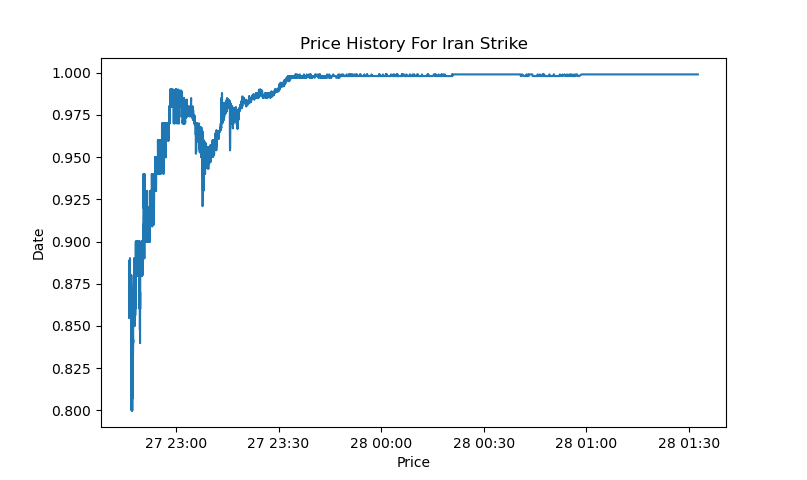
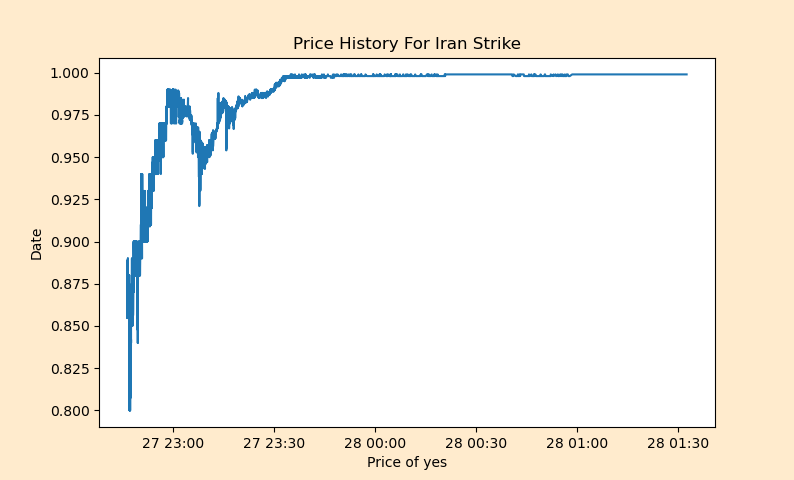
editing price history plots blanched almond

diff --git a/data-collection/polymarket_api_functions.py b/data-collection/polymarket_api_functions.py
@@ -170,7 +170,7 @@ def plot_price_history(trades_csv,market_name):
     prices_updated = []
     sorted_trades = trades_csv.sort_values(by='timestamp')
     timestamp_list =[]
-    for row in sorted_trades.itertuples():
+    for index,row in sorted_trades.iterrows():
         timestamp = row['timestamp']
         dt_object = datetime.fromtimestamp(timestamp)
         timestamp_list.append(dt_object)
@@ -178,7 +178,8 @@ def plot_price_history(trades_csv,market_name):
         if row['outcome'] == 'No':
             price  = 1-price
         prices_updated.append(price)
-    plt.figure(1)
+    fig = plt.figure(1)
+    fig.set_facecolor('#ffebcd')
     plt.xlabel("Price of yes")
     plt.ylabel("Date")
     plt.title(f"Price History For {market_name}")
